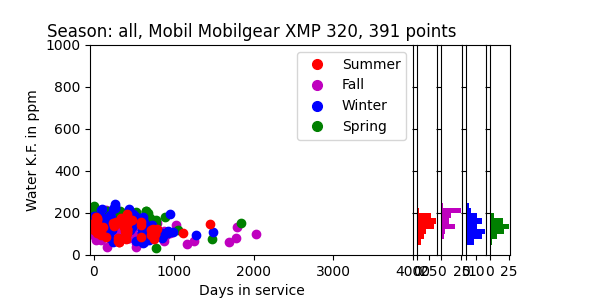
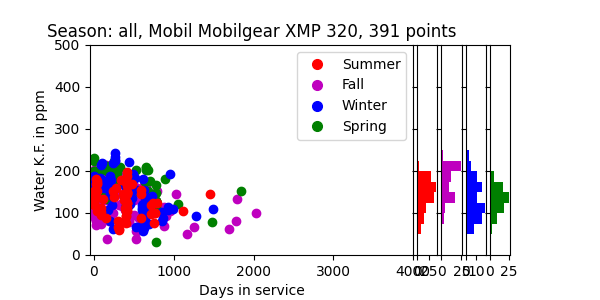
Sep 29, 2022, 5:16 PM

diff --git a/project/dataset.py b/project/dataset.py
@@ -189,7 +189,7 @@ class Dataset:
                     ylabelstr = "Water K.F. in ppm"
                     save_name = f"H2O_vs_days_all_{noil}.png"
                     ax.set_xlim(-50, 4000)
-                    ax.set_ylim(0, 1000)
+                    ax.set_ylim(0, 500)
                     if len(d1["x_values"]) > 150:
                         binwidth = 25
                     else:
